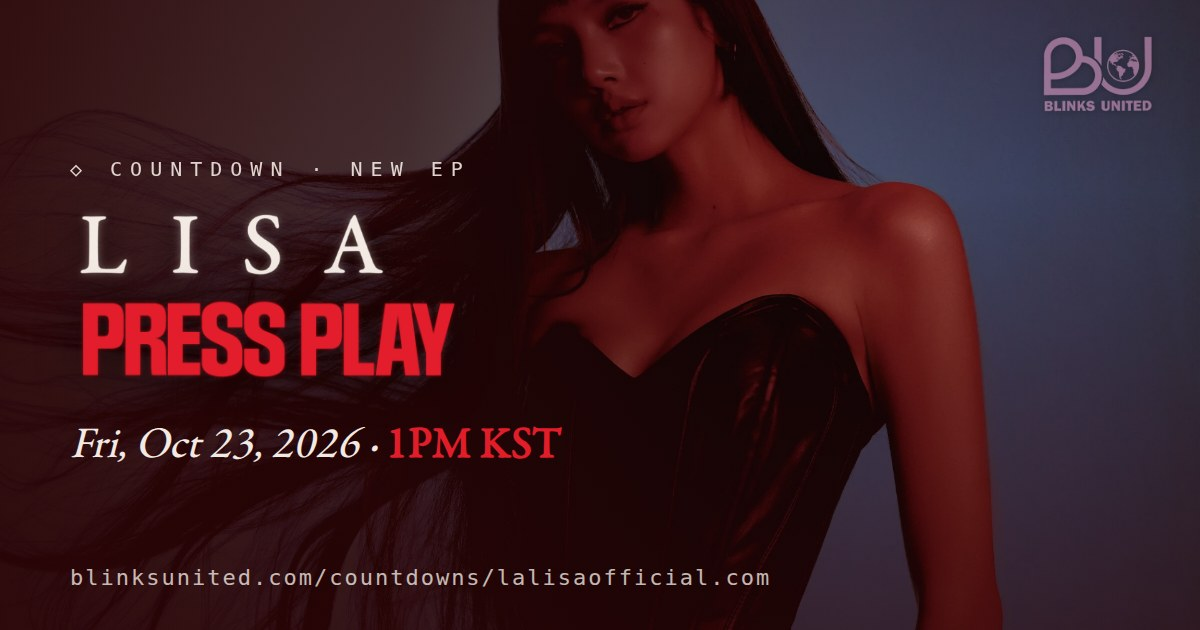
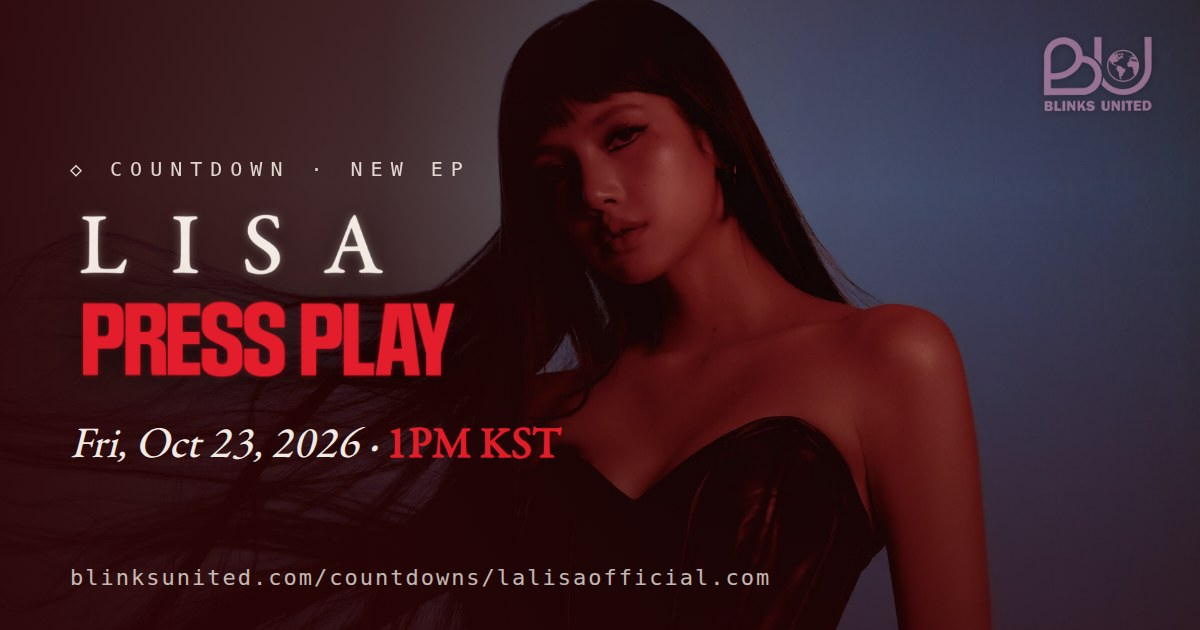
LISA cards: Picture/Video share chooser, full-face OG crop, presave link
- PRESS PLAY Share button now opens a chooser: post the Picture (countdown
  card), the Video (LISA teaser, Web Share level 2 file), or the Link.
- Regenerate the PRESS PLAY OG preview so LISA's face is no longer cropped.
- hellosawadika.com single card now links to lalisaofficial.com and the button
  reads 'Pre-save' (site moved; join flow is now a pre-save).

Claude-Session: https://claude.ai/code/session_014CHDuXJjZkYDUErR9GwEuA

Changed region(s): [[0.2158, 0.0, 0.8325, 1.0], [0.3392, 0.7238, 0.37, 0.754], [0.3083, 0.754, 0.3392, 0.7841]]

diff --git a/index.html b/index.html
@@ -1712,6 +1712,24 @@
   .cd-card-lisa .cd-btn-ghost { background: rgba(255,255,255,0.06); color: var(--la-cream);
     border: 1px solid rgba(242,233,226,0.5); }
   .cd-card-lisa .cd-btn-ghost:hover { background: rgba(242,233,226,0.14); filter: none; }
+  /* PRESS PLAY share chooser (Picture / Video / Link) */
+  #pp-share-sheet .pp-sheet { background: #1a0406; border: 1px solid rgba(225,29,42,0.4);
+    border-radius: 20px 20px 0 0; padding: 18px 18px calc(18px + env(safe-area-inset-bottom));
+    width: 100%; max-width: 440px; transform: translateY(24px); transition: transform 0.25s ease; }
+  #pp-share-sheet .pp-sheet-title { font-family: 'DM Mono', monospace; font-size: 0.7rem; letter-spacing: 0.18em;
+    text-transform: uppercase; color: #f2e9e2; opacity: 0.7; text-align: center; margin-bottom: 14px; }
+  #pp-share-sheet .pp-opt { display: flex; align-items: center; gap: 0.7rem; width: 100%; text-align: left;
+    background: rgba(255,255,255,0.05); border: 1px solid rgba(242,233,226,0.14); color: #f2e9e2;
+    border-radius: 12px; padding: 0.75rem 0.95rem; margin-bottom: 0.55rem; font-size: 1.35rem; cursor: pointer;
+    transition: background 0.15s ease; }
+  #pp-share-sheet .pp-opt:hover { background: rgba(225,29,42,0.16); }
+  #pp-share-sheet .pp-opt span { font-family: 'DM Mono', monospace; font-size: 0.9rem; font-weight: 500; letter-spacing: 0.02em; }
+  #pp-share-sheet .pp-opt small { margin-left: auto; font-family: 'DM Mono', monospace; font-size: 0.62rem;
+    opacity: 0.55; letter-spacing: 0.02em; }
+  #pp-share-sheet .pp-cancel { width: 100%; background: transparent; border: 1px solid rgba(242,233,226,0.22);
+    color: rgba(242,233,226,0.75); border-radius: 99px; padding: 0.6rem; margin-top: 0.3rem;
+    font-family: 'DM Mono', monospace; font-size: 0.78rem; letter-spacing: 0.06em; text-transform: uppercase; cursor: pointer; }
+  #pp-share-sheet .pp-cancel:hover { background: rgba(242,233,226,0.08); }
 
   /* /countdowns hub page */
   .cd-hub { max-width: 960px; margin: 0 auto; padding: 80px 1.2rem 3rem; text-align: center; }
@@ -2364,7 +2382,7 @@
               </div>
               <div class="sw-thai"><img src="/sawadika/sawadika.svg" alt="สวัสดีค่ะ — Sawadika"></div>
             </div>
-            <div class="cd-eyebrow sw-eyebrow">LISA · New Single · hellosawadika.com</div>
+            <div class="cd-eyebrow sw-eyebrow">LISA · New Single · lalisaofficial.com</div>
             <div class="cd-sub">Single · Thu, Sep 3, 2026 · 1PM KST / 12AM EDT</div>
             <div class="cd-badge-chip" id="lisa-badge" style="display:none;">🏆 Early Supporter</div>
             <div class="cd-timer cd-timer-plain" data-timer></div>
@@ -2376,7 +2394,7 @@
               <div class="cd-goal-bar"><div class="cd-goal-fill" id="lisa-goal-fill" style="width:0%"></div></div>
             </div>
             <div class="cd-links">
-              <a class="cd-btn sw-btn" href="https://hellosawadika.com" target="_blank" rel="noopener" onclick="saveLisaSawadika()">Join the reveal ↗</a>
+              <a class="cd-btn sw-btn" href="https://www.lalisaofficial.com/" target="_blank" rel="noopener" onclick="saveLisaSawadika()">Pre-save ↗</a>
               <button class="cd-btn sw-btn sw-btn-ghost" onclick="openLisaCard()">📸 Share</button>
             </div>
           </div>
@@ -11358,13 +11376,66 @@ function openJisooCard() {
   else { try { navigator.clipboard?.writeText(txt + ' ' + url); _showShareToast('Link copied ✨'); } catch {} }
 }
 
-// Share LISA's PRESS PLAY EP countdown — shares the /countdowns deep link so the
-// preview card (middleware OG) shows on socials.
+// Share LISA's PRESS PLAY EP countdown. Opens a small sheet so the fan can pick
+// what to post: the countdown-card Picture, LISA's teaser Video, or the Link
+// (whose /countdowns deep link renders the preview card on socials).
+const PP_SHARE_TEXT = 'LISA — PRESS PLAY EP · Oct 23, 2026 🎬';
+const PP_SHARE_URL = 'https://www.blinksunited.com/countdowns/lalisaofficial.com';
 function openLisaPressPlayCard() {
-  const url = 'https://www.blinksunited.com/countdowns/lalisaofficial.com';
-  const txt = 'LISA — PRESS PLAY EP · Oct 23, 2026 🎬';
-  if (navigator.share) navigator.share({ title: 'LISA — PRESS PLAY', text: txt, url }).catch(() => {});
-  else { try { navigator.clipboard?.writeText(txt + ' ' + url); _showShareToast('Link copied ✨'); } catch {} }
+  let ov = document.getElementById('pp-share-sheet');
+  if (!ov) {
+    ov = document.createElement('div');
+    ov.id = 'pp-share-sheet';
+    ov.style.cssText = 'position:fixed;inset:0;z-index:10001;display:none;align-items:flex-end;justify-content:center;background:rgba(0,0,0,0.55);opacity:0;transition:opacity .2s';
+    ov.onclick = (e) => { if (e.target === ov) closePressPlayShare(); };
+    ov.innerHTML =
+      '<div class="pp-sheet">' +
+        '<div class="pp-sheet-title">Share PRESS PLAY</div>' +
+        '<button class="pp-opt" onclick="_sharePressPlay(\'image\')">🖼<span>Picture</span><small>Countdown card</small></button>' +
+        '<button class="pp-opt" onclick="_sharePressPlay(\'video\')">🎬<span>Video</span><small>LISA teaser clip</small></button>' +
+        '<button class="pp-opt" onclick="_sharePressPlay(\'link\')">🔗<span>Link</span><small>Preview link</small></button>' +
+        '<button class="pp-cancel" onclick="closePressPlayShare()">Cancel</button>' +
+      '</div>';
+    document.body.appendChild(ov);
+  }
+  ov.style.display = 'flex';
+  requestAnimationFrame(() => { ov.style.opacity = '1'; ov.querySelector('.pp-sheet').style.transform = 'translateY(0)'; });
+}
+function closePressPlayShare() {
+  const ov = document.getElementById('pp-share-sheet');
+  if (!ov) return;
+  ov.style.opacity = '0';
+  const s = ov.querySelector('.pp-sheet'); if (s) s.style.transform = 'translateY(24px)';
+  setTimeout(() => { ov.style.display = 'none'; }, 200);
+}
+async function _sharePressPlay(kind) {
+  closePressPlayShare();
+  if (kind === 'link') {
+    if (navigator.share) navigator.share({ title: 'LISA — PRESS PLAY', text: PP_SHARE_TEXT, url: PP_SHARE_URL }).catch(() => {});
+    else { try { navigator.clipboard?.writeText(PP_SHARE_TEXT + ' ' + PP_SHARE_URL); _showShareToast('Link copied ✨'); } catch {} }
+    return;
+  }
+  const asset = kind === 'video'
+    ? { src: '/lisa-preview.mp4', type: 'video/mp4', name: 'LISA-PRESS-PLAY.mp4' }
+    : { src: '/og-countdown-pressplay.jpg', type: 'image/jpeg', name: 'LISA-PRESS-PLAY.jpg' };
+  let blob;
+  try { blob = await (await fetch(asset.src)).blob(); }
+  catch { _showShareToast('Could not load — try again'); return; }
+  const file = new File([blob], asset.name, { type: asset.type });
+  // Web Share level 2 (files) — best on mobile. Some targets reject a url alongside
+  // files, so share the file with just the caption text.
+  if (navigator.canShare && navigator.canShare({ files: [file] })) {
+    try { await navigator.share({ files: [file], text: PP_SHARE_TEXT }); return; }
+    catch (e) { if (e && e.name === 'AbortError') return; /* else fall through to download */ }
+  }
+  // Fallback (desktop / unsupported): download the asset.
+  try {
+    const u = URL.createObjectURL(blob);
+    const a = document.createElement('a');
+    a.href = u; a.download = asset.name; document.body.appendChild(a); a.click(); a.remove();
+    setTimeout(() => URL.revokeObjectURL(u), 1000);
+    _showShareToast(kind === 'video' ? 'Video saved ✓' : 'Picture saved ✓');
+  } catch { _showShareToast('Could not share — try again'); }
 }
 
 // ── Release card expand panel: global release times, goals, links ─────────

diff --git a/middleware.js b/middleware.js
@@ -37,7 +37,7 @@ const COUNTDOWNS = {
   },
   'hellosawadika.com': {
     title: 'LISA — New Single, Sep 3, 2026 | Countdown · BLINKS UNITED',
-    description: "Counting down to LISA's new single — Sep 3, 2026 (1PM KST / 12AM EDT). hellosawadika.com.",
+    description: "Counting down to LISA's new single — Sep 3, 2026 (1PM KST / 12AM EDT). Pre-save at lalisaofficial.com.",
     image: '/og-countdown-lisa.jpg',
   },
   'lalisaofficial.com': {
